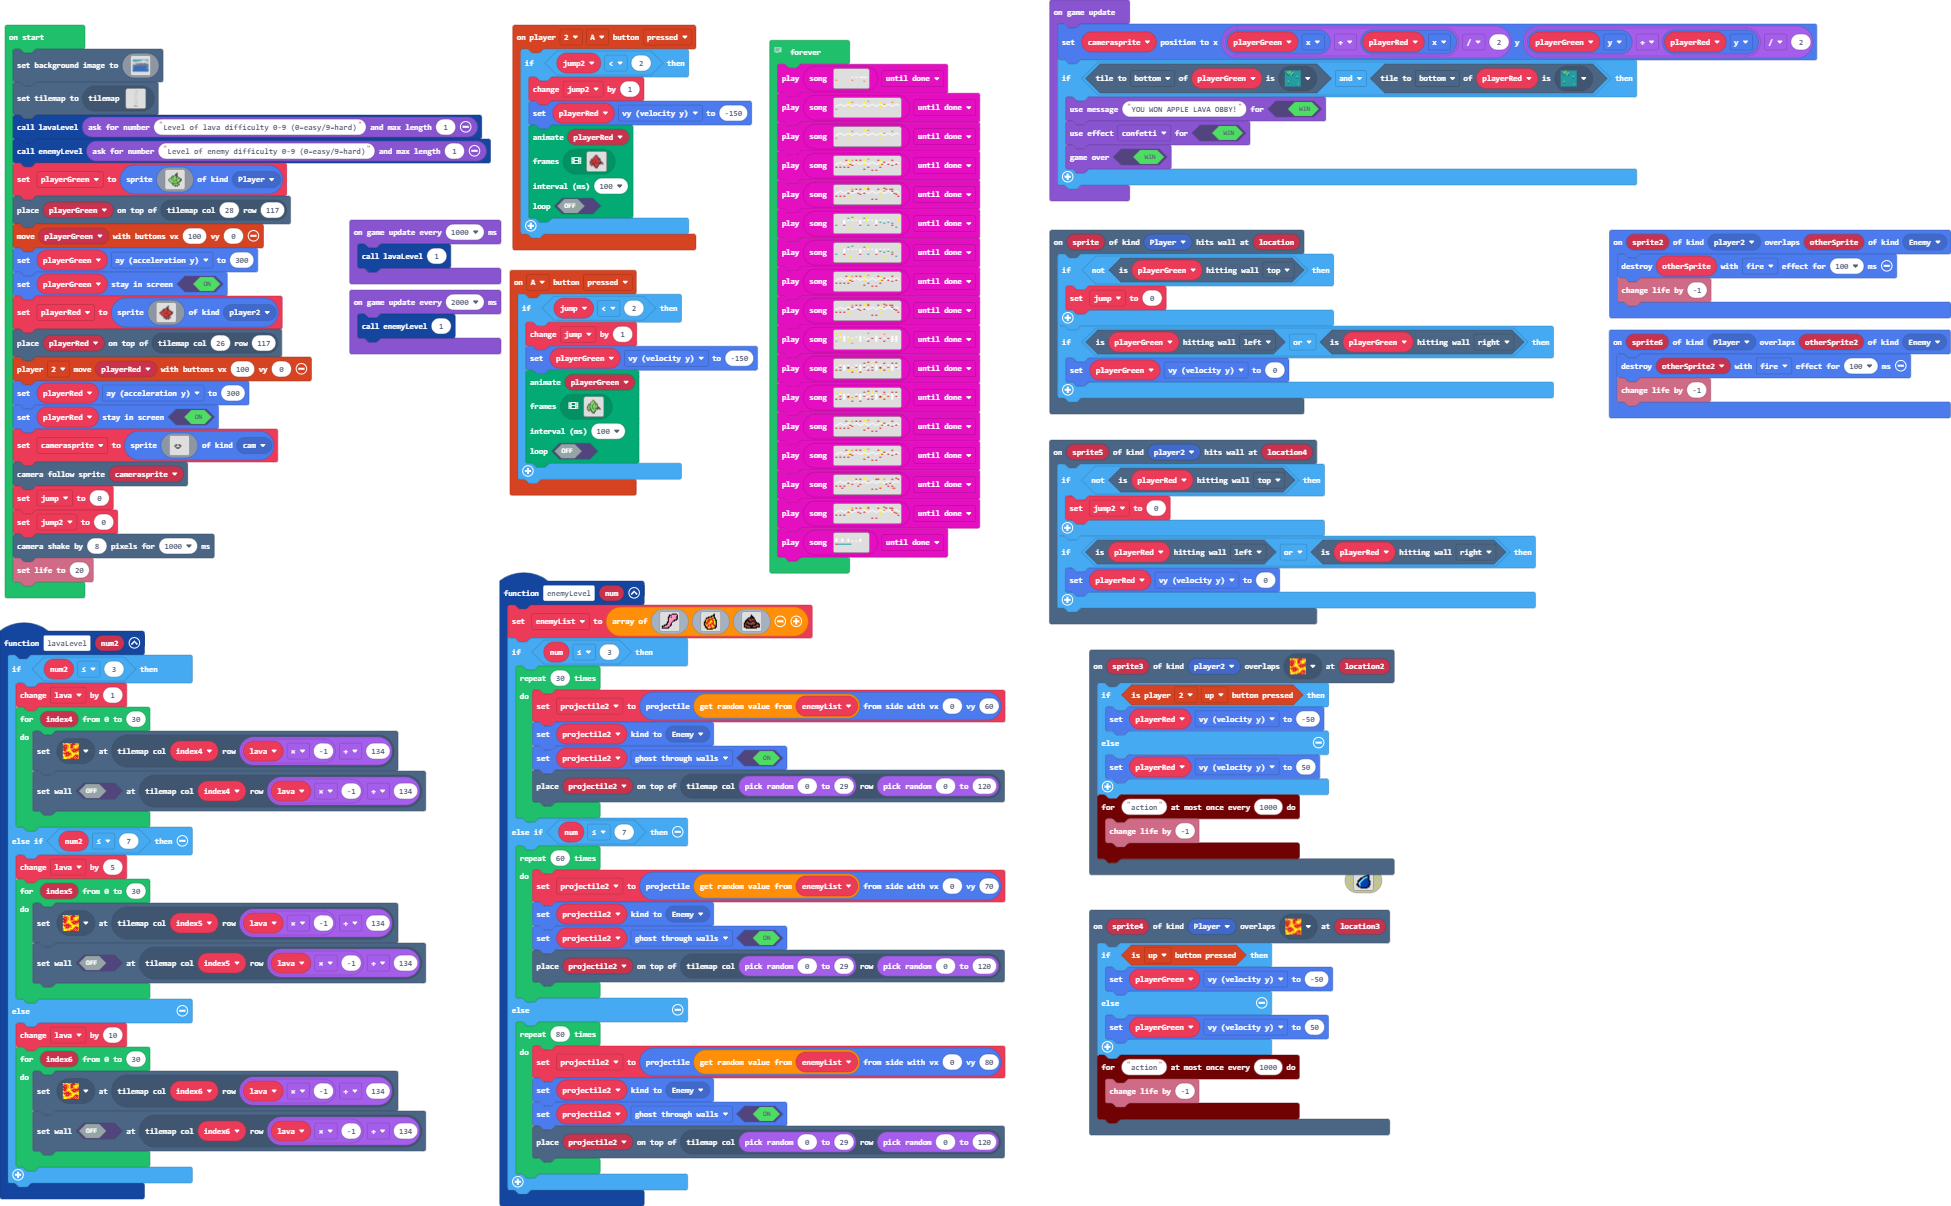
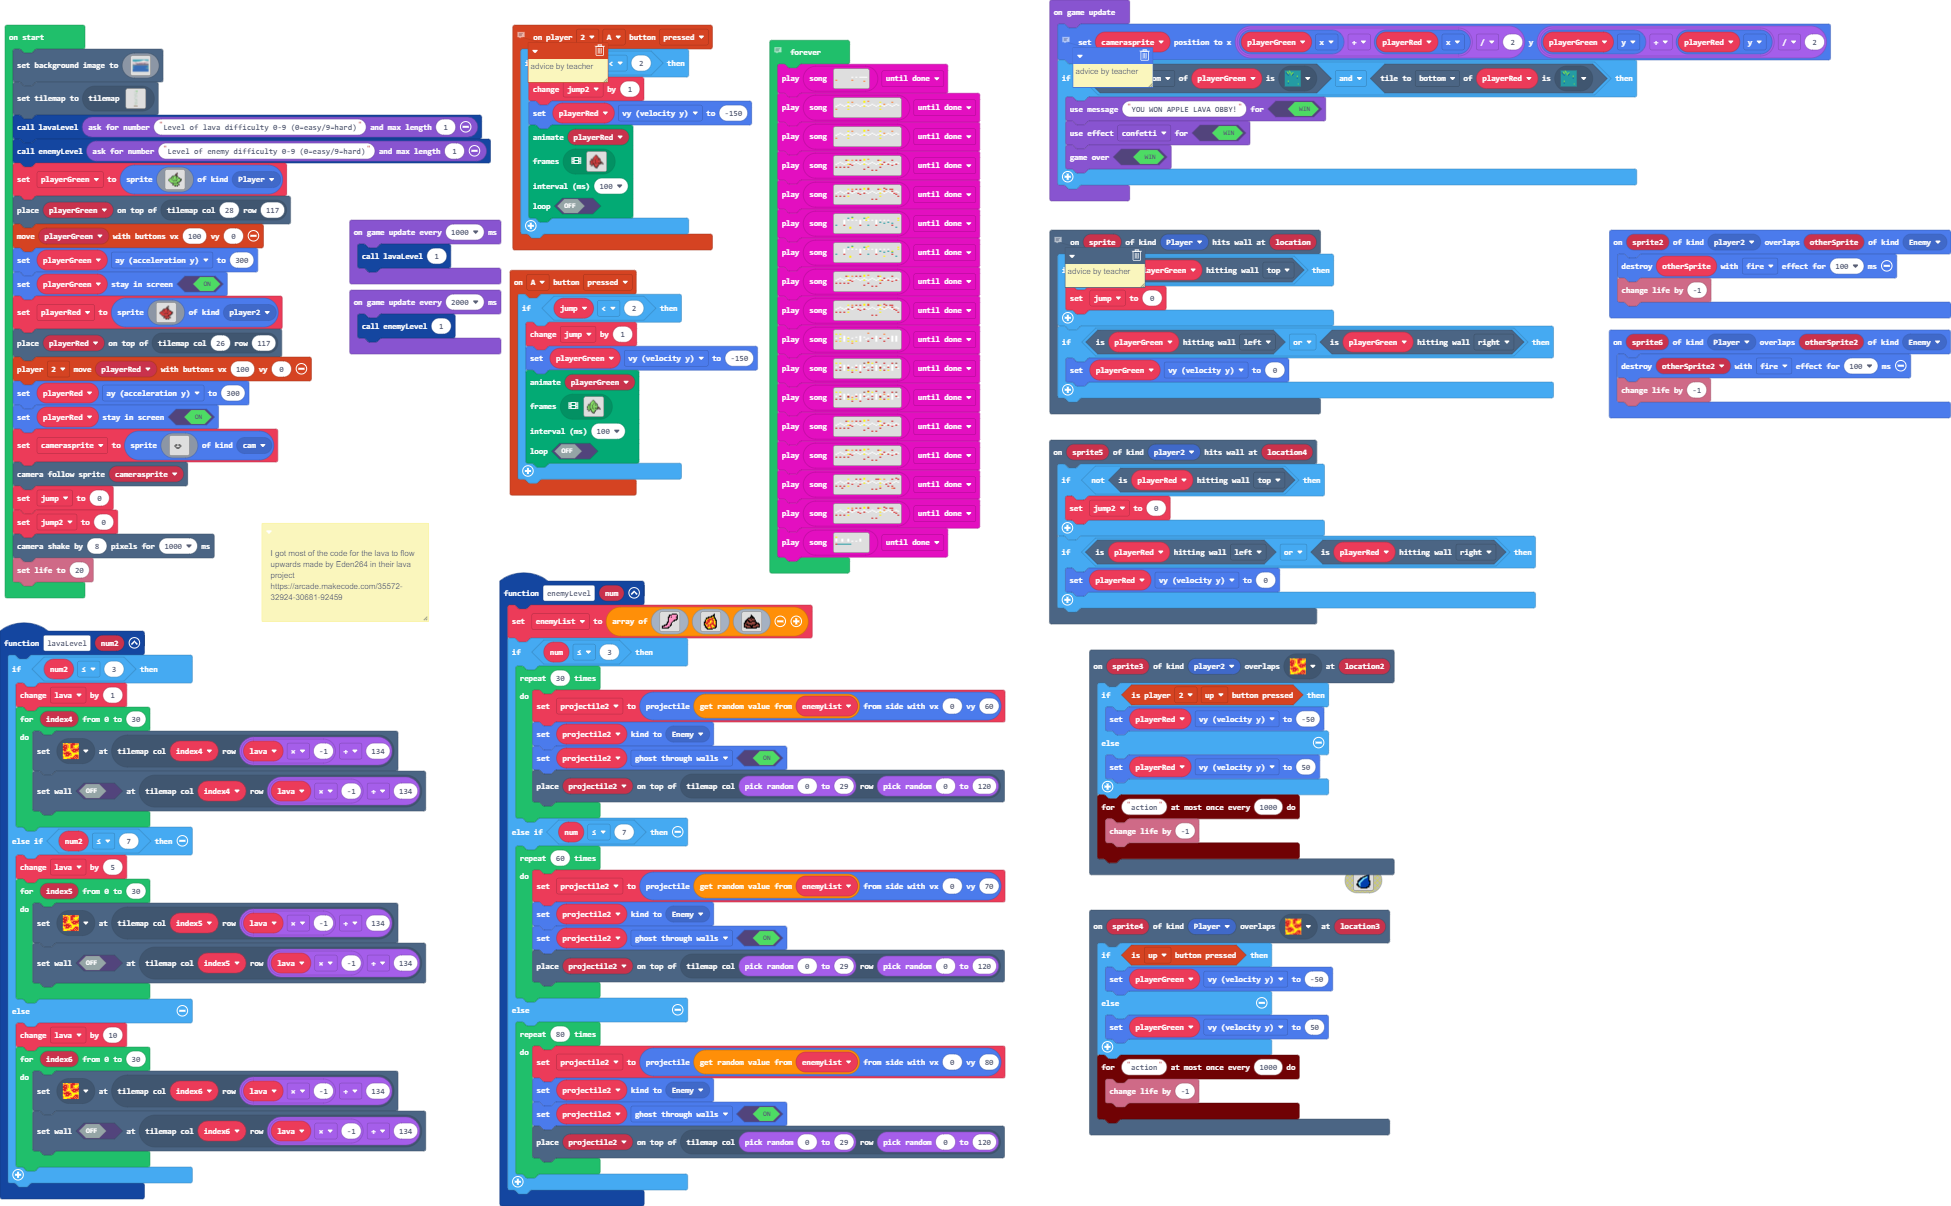
Update main.blocks, main.ts, tilemap.g.jres, tilemap.g.ts

diff --git a/tilemap.g.ts b/tilemap.g.ts
@@ -190,6 +190,25 @@ namespace myTiles {
 . . . . . . . . . . . . . . . . 
 . . . . . . . . . . . . . . . . 
 `, [myTiles.transparency16], TileScale.Sixteen);
+            case "level5":
+            case "level5":return tiles.createTilemap(hex`1000100000000000000000000000000000000000000000000000000000000000000000000000000000000000000000000000000000000000000000000000000000000000000000000000000000000000000000000000000000000000000000000000000000000000000000000000000000000000000000000000000000000000000000000000000000000000000000000000000000000000000000000000000000000000000000000000000000000000000000000000000000000000000000000000000000000000000000000000000000000000000000000000000000000000000000000000000000000000000000000000000000000000000000000000000000000000`, img`
+. . . . . . . . . . . . . . . . 
+. . . . . . . . . . . . . . . . 
+. . . . . . . . . . . . . . . . 
+. . . . . . . . . . . . . . . . 
+. . . . . . . . . . . . . . . . 
+. . . . . . . . . . . . . . . . 
+. . . . . . . . . . . . . . . . 
+. . . . . . . . . . . . . . . . 
+. . . . . . . . . . . . . . . . 
+. . . . . . . . . . . . . . . . 
+. . . . . . . . . . . . . . . . 
+. . . . . . . . . . . . . . . . 
+. . . . . . . . . . . . . . . . 
+. . . . . . . . . . . . . . . . 
+. . . . . . . . . . . . . . . . 
+. . . . . . . . . . . . . . . . 
+`, [myTiles.transparency16], TileScale.Sixteen);
         }
         return null;
     })

diff --git a/main.ts b/main.ts
@@ -61,6 +61,7 @@ function enemyLevel (num: number) {
         }
     }
 }
+// advice by teacher
 scene.onHitWall(SpriteKind.Player, function (sprite, location) {
     if (!(playerGreen.isHittingTile(CollisionDirection.Top))) {
         jump = 0
@@ -145,6 +146,7 @@ controller.A.onEvent(ControllerButtonEvent.Pressed, function () {
         )
     }
 })
+// advice by teacher
 controller.player2.onButtonEvent(ControllerButton.A, ControllerButtonEvent.Pressed, function () {
     if (jump2 < 2) {
         jump2 += 1
@@ -270,6 +272,9 @@ scene.onOverlapTile(SpriteKind.Player, sprites.dungeon.hazardLava1, function (sp
         info.changeLifeBy(-1)
     })
 })
+/**
+ * I got most of the code for the lava to flow upwards made by Eden264 in their lava project https://arcade.makecode.com/35572-32924-30681-92459
+ */
 let lava = 0
 let projectile2: Sprite = null
 let enemyList: Image[] = []
@@ -436,6 +441,7 @@ jump2 = 0
 scene.cameraShake(8, 1000)
 info.setLife(20)
 game.onUpdate(function () {
+    // advice by teacher
     camerasprite.setPosition((playerGreen.x + playerRed.x) / 2, (playerGreen.y + playerRed.y) / 2)
     if (playerGreen.tileKindAt(TileDirection.Bottom, sprites.castle.tileDarkGrass3) && playerRed.tileKindAt(TileDirection.Bottom, sprites.castle.tileDarkGrass3)) {
         game.setGameOverMessage(true, "YOU WON APPLE LAVA OBBY!")
